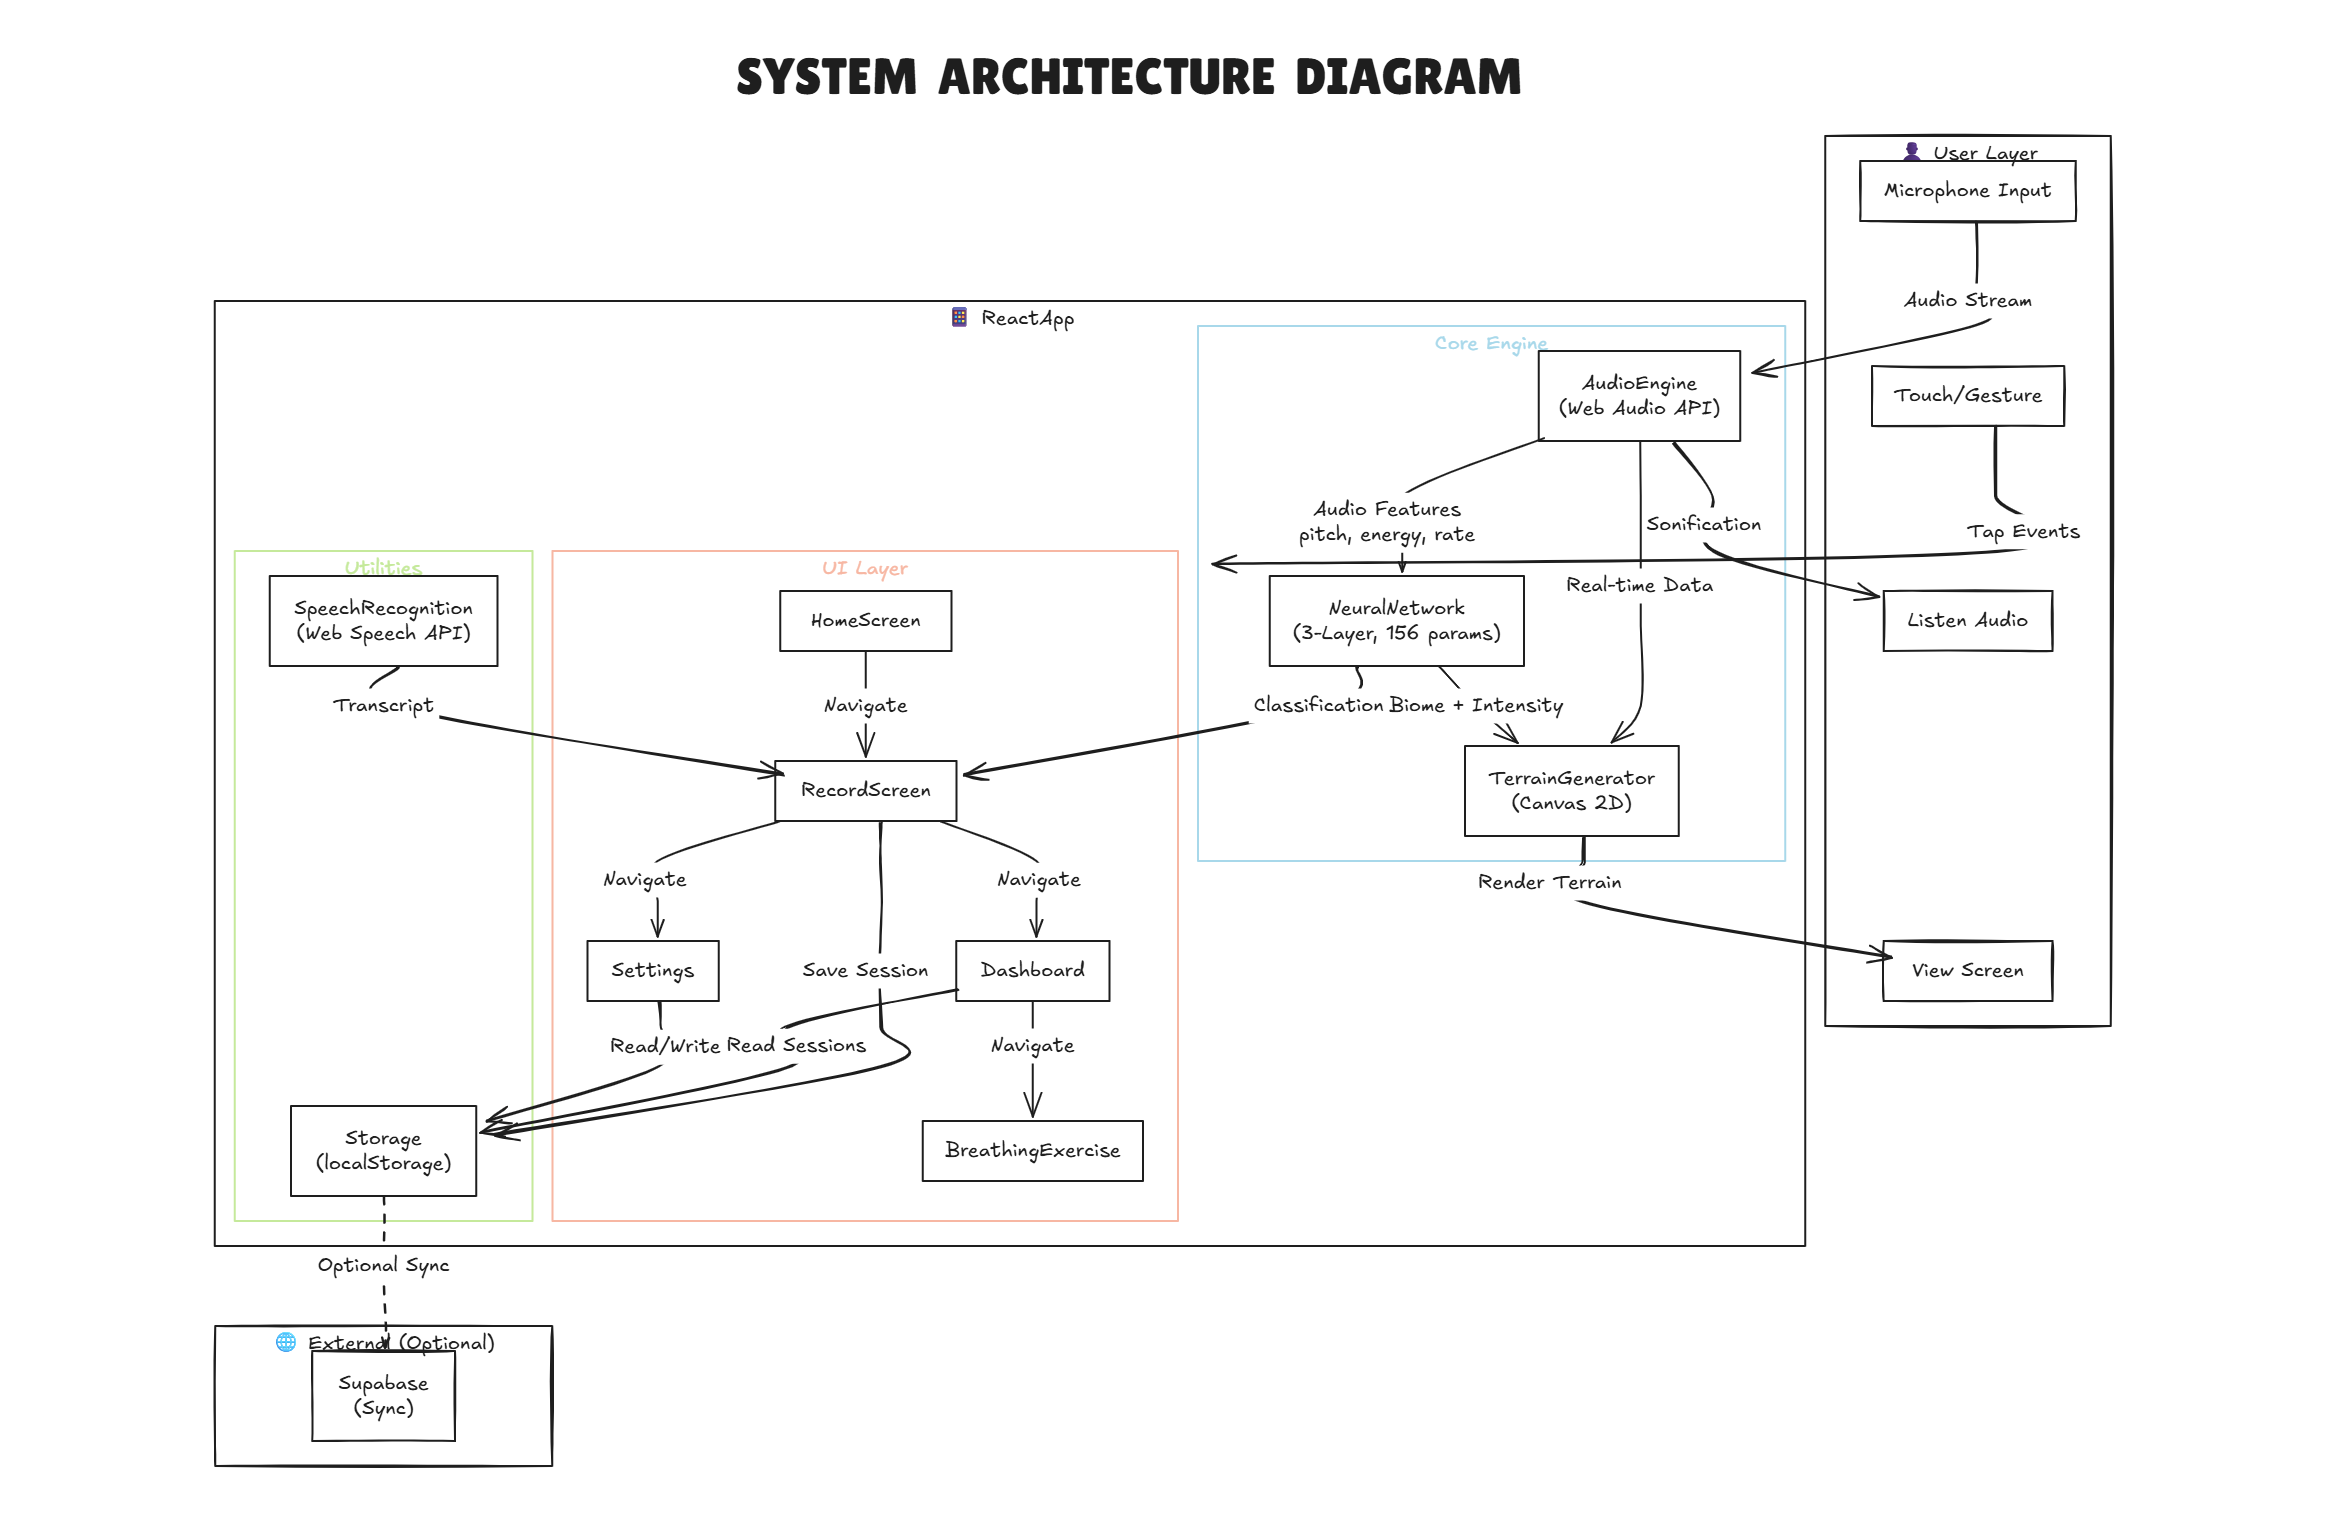
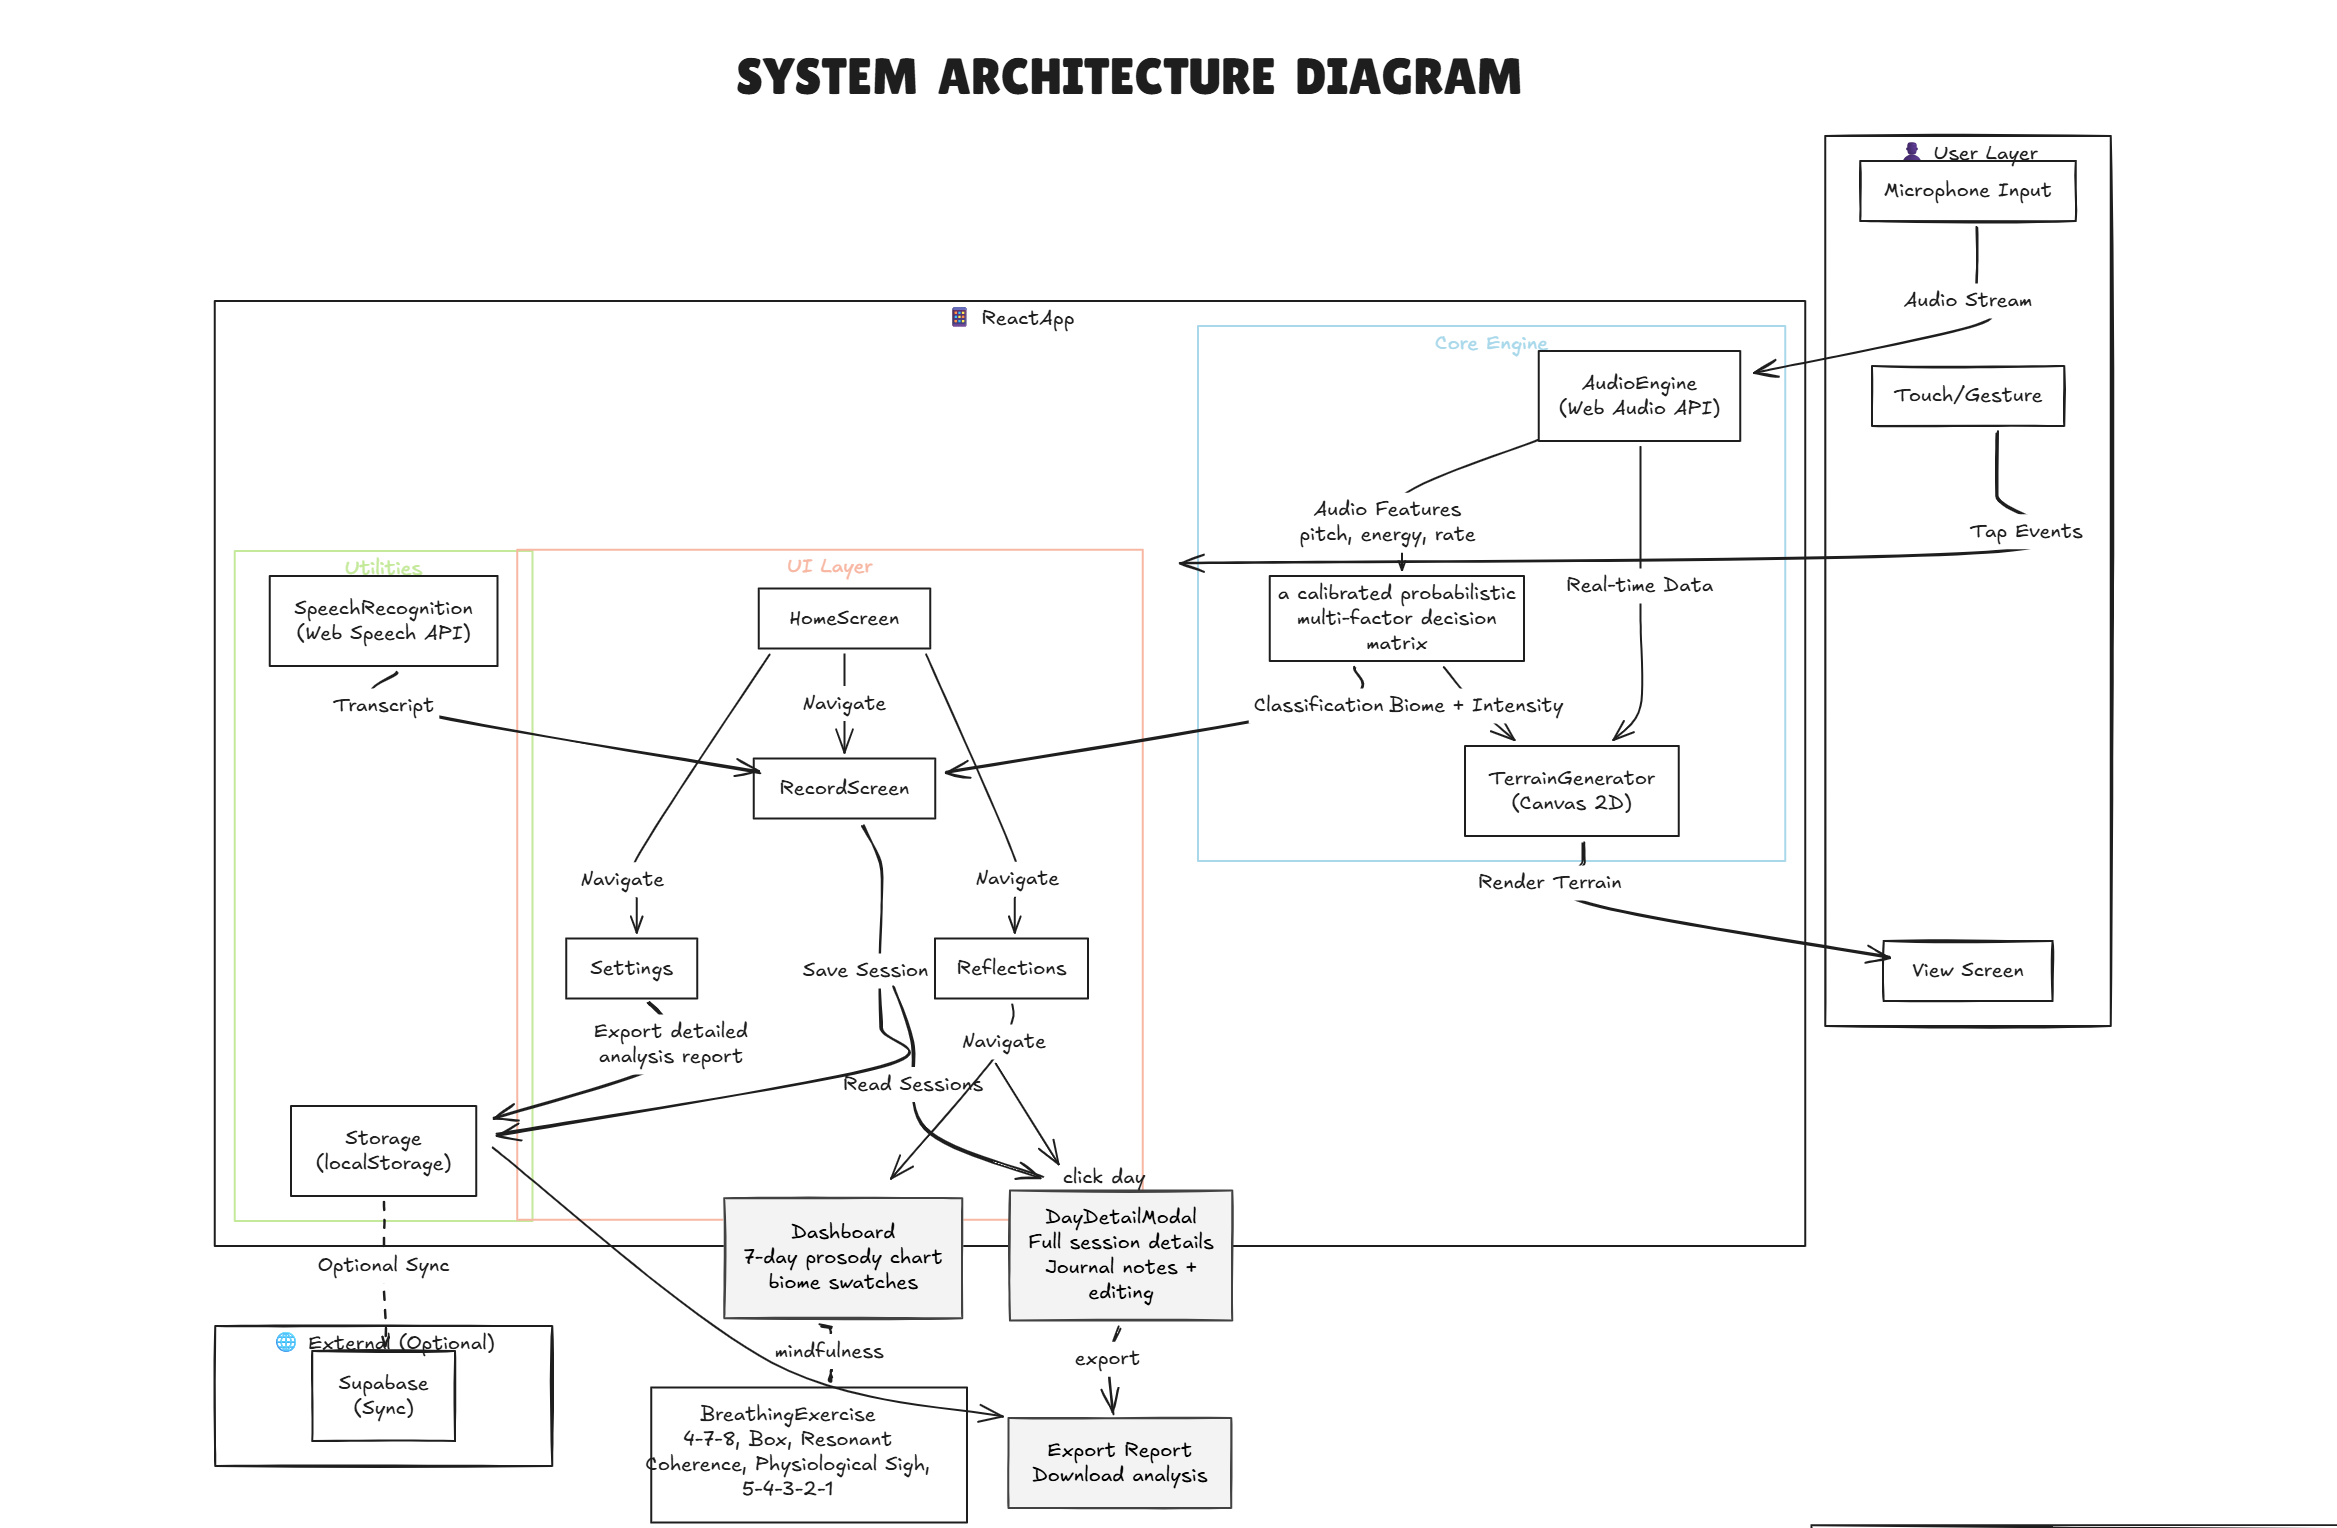
Last few minor updates

diff --git a/src/screens/SettingsScreen.jsx b/src/screens/SettingsScreen.jsx
@@ -4,12 +4,12 @@ import { downloadSessionsReport } from "../utils/exportReport";
 import "./SettingsScreen.css";
 
 export default function SettingsScreen({
-  onNavChange = () => {},
-  onClearHistory = () => {},
+  onNavChange = () => { },
+  onClearHistory = () => { },
   temporaryRecordings = true,
-  onTemporaryRecordingsChange = () => {},
+  onTemporaryRecordingsChange = () => { },
   onDeviceAnalysis = true,
-  onOnDeviceAnalysisChange = () => {},
+  onOnDeviceAnalysisChange = () => { },
   sessions = [],
 }) {
   const [isProfileOpen, setIsProfileOpen] = useState(false);
@@ -20,7 +20,7 @@ export default function SettingsScreen({
   return (
     <div className="settings-screen">
       <header className="settings-header">
-        <p className="settings-eyebrow">VOICE TERRAIN</p>
+        <p className="settings-eyebrow">Resonance</p>
         <h1>Settings</h1>
         <p className="settings-subtitle">Make the app feel right for you.</p>
       </header>
@@ -61,9 +61,8 @@ export default function SettingsScreen({
 
               <button
                 type="button"
-                className={`settings-status-toggle ${
-                  onDeviceAnalysis ? "settings-status-toggle--on" : ""
-                }`}
+                className={`settings-status-toggle ${onDeviceAnalysis ? "settings-status-toggle--on" : ""
+                  }`}
                 onClick={() => onOnDeviceAnalysisChange(!onDeviceAnalysis)}
                 aria-pressed={onDeviceAnalysis}
               >
@@ -83,9 +82,8 @@ export default function SettingsScreen({
 
               <button
                 type="button"
-                className={`settings-status-toggle ${
-                  temporaryRecordings ? "settings-status-toggle--on" : ""
-                }`}
+                className={`settings-status-toggle ${temporaryRecordings ? "settings-status-toggle--on" : ""
+                  }`}
                 onClick={() =>
                   onTemporaryRecordingsChange(!temporaryRecordings)
                 }
@@ -158,7 +156,7 @@ export default function SettingsScreen({
             <div className="settings-icon">i</div>
 
             <div className="settings-card-content">
-              <strong>About Voice Terrain</strong>
+              <strong>About Resonance</strong>
               <span>Version 1.0 · Built with care</span>
             </div>
 

diff --git a/src/screens/HomeScreen.jsx b/src/screens/HomeScreen.jsx
@@ -18,30 +18,30 @@ const defaultLastTerrain = {
 };
 
 export default function HomeScreen({
-  onStartTalking = () => {},
-  onNavChange = () => {},
+  onStartTalking = () => { },
+  onNavChange = () => { },
   lastSession = null,
 }) {
   const [pressed, setPressed] = useState(false);
 
   const displayTerrain = lastSession
     ? {
-        palette: lastSession.palette,
-        label: lastSession.biomeName,
-        timeAgo: lastSession.dateFormatted || 'Just now',
-      }
+      palette: lastSession.palette,
+      label: lastSession.biomeName,
+      timeAgo: lastSession.dateFormatted || 'Just now',
+    }
     : defaultLastTerrain;
 
   return (
     <div className="home-screen">
       <header className="home-header">
-        <p className="eyebrow">Voice Terrain</p>
+        <p className="eyebrow">Resonance</p>
         <h1 className="greeting">
           {getGreeting()}
           <br />
           How was your day?
         </h1>
-        <p className="subtext">You don't have to find the right words. Any words are fine.</p>
+        <p className="subtext">You don't have to find the right words. We hear you</p>
       </header>
 
       <div className="record-section">
@@ -61,7 +61,7 @@ export default function HomeScreen({
             <span className="record-button__label">Start talking</span>
           </span>
         </button>
-        <p className="record-caption">Nothing leaves your device. Humming counts.</p>
+        <p className="record-caption">Nothing leaves your device.</p>
       </div>
 
       <section className="last-terrain">

diff --git a/src/screens/HomeScreen.css b/src/screens/HomeScreen.css
@@ -34,7 +34,7 @@
 
 .subtext {
   margin-top: 16px;
-  font-size: 15px;
+  font-size: 13px;
   line-height: 1.55;
   color: var(--color-text-muted, #948c7d);
   max-width: 340px;
@@ -98,7 +98,8 @@
   gap: 8px;
   box-shadow: 0 16px 36px rgba(92, 127, 190, 0.48), inset 0 2px 4px rgba(255, 255, 255, 0.35);
   transition: transform 0.2s cubic-bezier(0.16, 1, 0.3, 1), box-shadow 0.2s ease;
-  transform: translateZ(0); /* Hardware acceleration for crisp text rendering */
+  transform: translateZ(0);
+  /* Hardware acceleration for crisp text rendering */
 }
 
 .record-button:hover .record-button__core {
@@ -128,10 +129,13 @@
 }
 
 @keyframes gentleHaloPulse {
-  0%, 100% {
+
+  0%,
+  100% {
     opacity: 0.4;
     transform: scale(0.98);
   }
+
   50% {
     opacity: 0.95;
     transform: scale(1.08);
@@ -139,7 +143,9 @@
 }
 
 @media (prefers-reduced-motion: reduce) {
-  .record-button__ring { animation: none; }
+  .record-button__ring {
+    animation: none;
+  }
 }
 
 /* ---------- Last terrain ---------- */
@@ -214,7 +220,17 @@
 }
 
 @media (max-width: 360px) {
-  .greeting { font-size: 28px; }
-  .record-button { width: 196px; height: 196px; }
-  .record-button__core { width: 134px; height: 134px; }
+  .greeting {
+    font-size: 28px;
+  }
+
+  .record-button {
+    width: 196px;
+    height: 196px;
+  }
+
+  .record-button__core {
+    width: 134px;
+    height: 134px;
+  }
 }

diff --git a/index.html b/index.html
@@ -3,7 +3,7 @@
 
 <head>
   <meta charset="UTF-8" />
-  <link rel="icon" type="image/svg+xml" href="/favicon.svg" />
+  <link rel="icon" type="image/svg+xml" href="/favicon.jpg" />
   <meta name="viewport" content="width=device-width, initial-scale=1.0" />
   <title>Resonance, your best buddy</title>
 </head>

diff --git a/README.md b/README.md
@@ -64,13 +64,15 @@ Traditional mood tracking and mental wellness tools are broken:
                └──────────────┬───────────────┘
                               ▼
 ┌─────────────────────────────────────────────────────────────┐
-│                  6 Vocal Biomarker Metrics                  │
-│  [Pitch Var, Mean Energy, Energy Var, Rate, Pauses, Jitter] │
+│               Statistical Feature Aggregation               │
+│ Semitone-normalized pitch variance, WPM cadence, pause      │
+│ density, energy variance, spectral flux jitter              │           
 └─────────────────────────────┬───────────────────────────────┘
                               ▼
 ┌─────────────────────────────────────────────────────────────┐
-│         On-Device 3-Layer Perceptron (316 Parameters)        │
-│       Input (6) ➔ Dense (8, ReLU) ➔ Dense (8) ➔ Softmax (5) │
+│ Multi-Factor Probabilistic Biome Classifier                 │
+│ 5 independent, explainable scoring functions (one per biome)| 
+|  → Softmax normalization → highest-probability wins         │
 └─────────────────────────────┬───────────────────────────────┘
                               ▼
 ┌─────────────────────────────────────────────────────────────┐
@@ -84,13 +86,17 @@ Traditional mood tracking and mental wellness tools are broken:
 * **Spectral Energy (RMS)**: Computes root-mean-square amplitude to capture dynamics between quiet whispers, normal cadence, and elevated pitch spikes.
 * **Temporal Speech Rhythms**: Measures syllable rate and pause density (ratio of unvoiced silence intervals to total speaking time).
 
-### 2. Neural Classification Architecture
-* A dedicated 3-layer neural network runs purely in vanilla JavaScript client-side:
-  $$\mathbf{h}_1 = \text{ReLU}(\mathbf{W}_1 \mathbf{x} + \mathbf{b}_1)$$
-  $$\mathbf{h}_2 = \text{ReLU}(\mathbf{W}_2 \mathbf{h}_1 + \mathbf{b}_2)$$
-  $$\mathbf{y} = \text{Softmax}(\mathbf{W}_3 \mathbf{h}_2 + \mathbf{b}_3)$$
-* **Latency**: $< 1.2\text{ms}$ inference time on mobile browsers.
-* **Zero network roundtrips**: Runs 100% offline.
+### 2. Probabilistic Biome Classification
+Rather than a black-box model, Resonance uses five independent, hand-calibrated scoring functions — one per biome — each built from acoustically meaningful thresholds:
+
+```js
+// Simplified example: Thunderstorm scoring
+thunderScore += speechRateNorm * 3.6;
+thunderScore += (1 - pauseDensity) * 3.0;
+thunderScore += jitterNorm * 2.2;
+if (wpm >= 165) thunderScore += 2.0;
+if (pauseDensity < 0.14) thunderScore += 1.5;
+```
 
 ---
 
@@ -140,9 +146,9 @@ Traditional mood tracking and mental wellness tools are broken:
 | :--- | :--- | :--- |
 | **Raw Voice Audio** | Discarded immediately after DSP analysis; never saved to disk | Uploaded to remote servers / S3 buckets |
 | **Data Storage** | 100% Local Device Storage (`localStorage`) | Centralized relational / cloud databases |
-| **AI Inference** | On-device JavaScript neural network | Server-side cloud LLM endpoints |
+| **AI Inference** | On-device JavaScript probability model | Server-side cloud LLM endpoints |
 | **Account Creation** | Zero sign-up, zero logins, zero telemetry | Mandatory emails, profiles, and tracking IDs |
-| **Offline Capability** | Fully functional without internet connection | Fails without active network connection |
+| **Classification Logic** | Transparent, rule-based acoustic scoring — fully auditable | Opaque trained models, unclear decision boundaries |
 
 ---
 
@@ -242,6 +248,7 @@ resonance/
 - [ ] **WASM Acoustic Engine**: Compile custom C++ DSP filters (Mel-Filterbank Cepstral Coefficients) into WebAssembly for sub-millisecond edge profiling.
 - [ ] **Spatial Audio Sonification**: Procedurally synthesize relaxing 3D spatial soundscapes reflecting the user's terrain in binaural audio.
 - [ ] **Encrypted Decentralized Sync**: Optional end-to-end encrypted backup using user-owned decentralized keys (Web3 / DID / passkeys).
+- [ ] **Robust On-Device Transcription**: Complete the transformers.js/Whisper fallback for network-independent transcription (currently falls back to Web Speech API, which requires connectivity).
 
 ---
 
